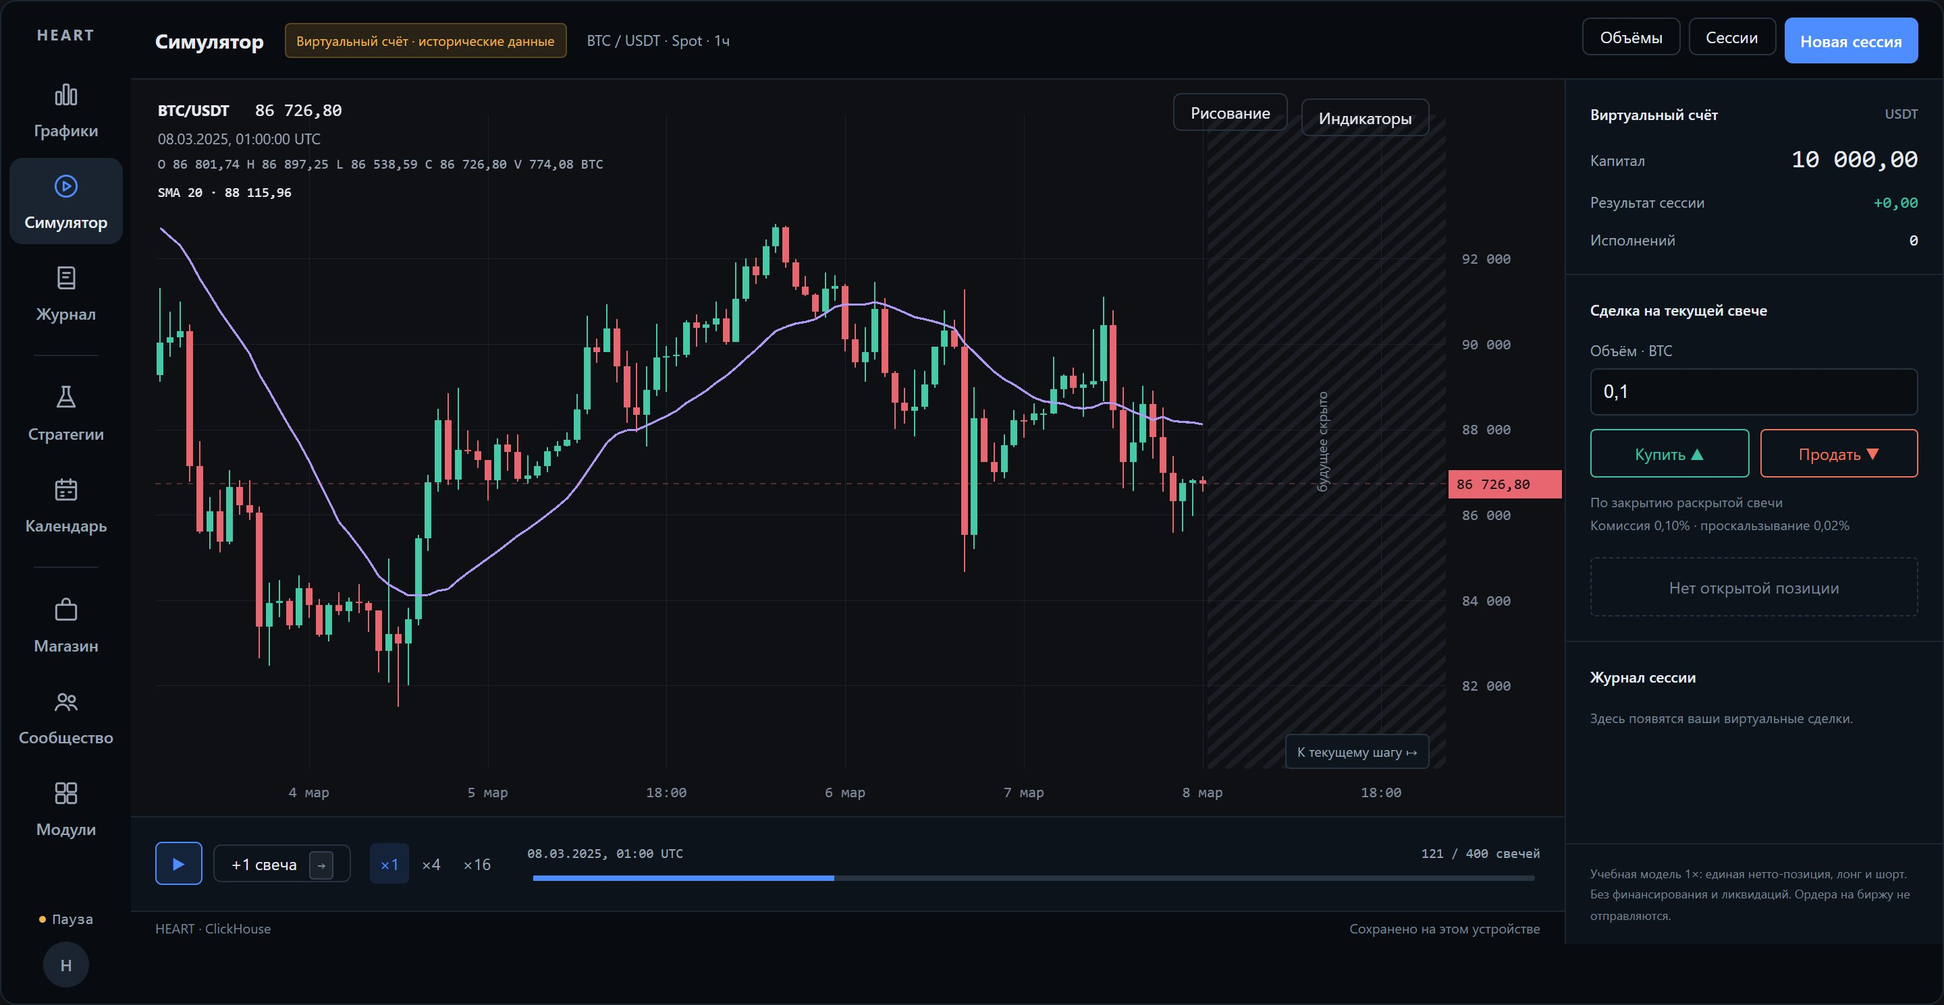
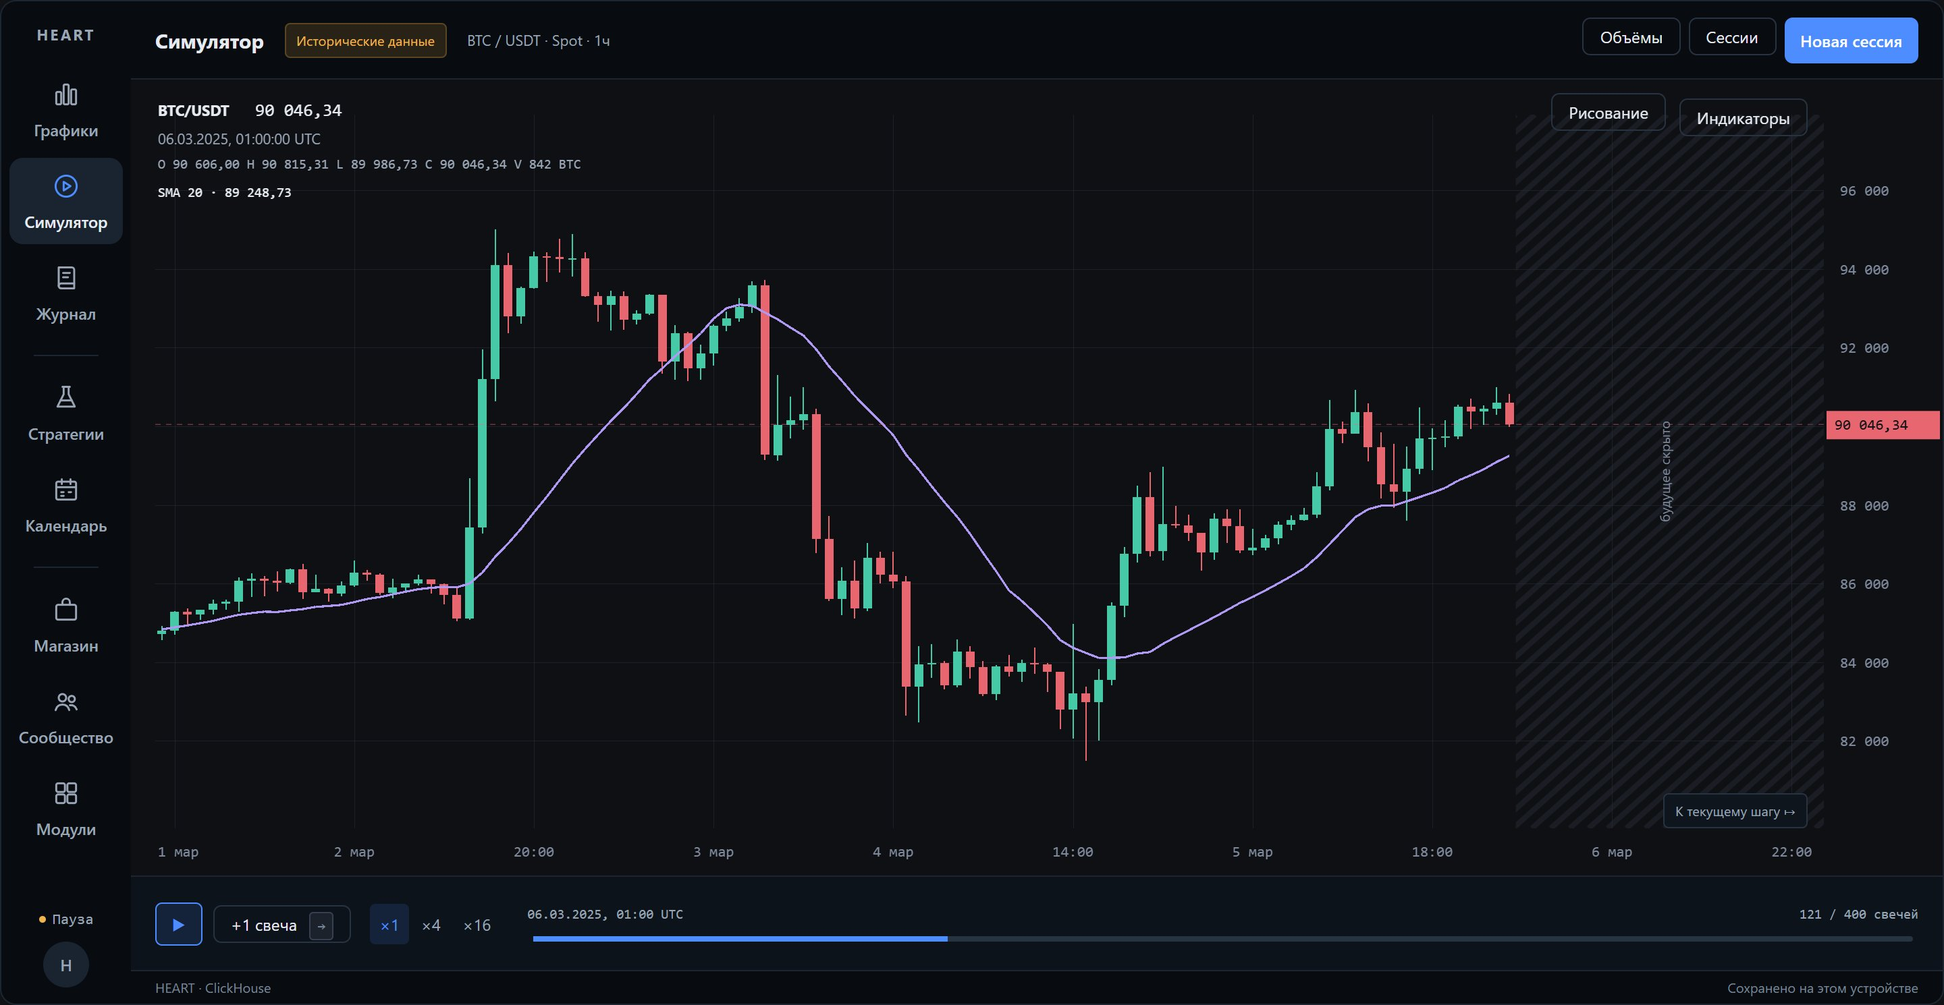
Showcase: without trading; the simulator replays without an account
The trading section, its shot and the real-account case are gone; the simulator and Modules shots are taken anew.

diff --git a/index.html b/index.html
@@ -4,7 +4,7 @@
 <meta charset="utf-8">
 <meta name="viewport" content="width=device-width, initial-scale=1, viewport-fit=cover">
 <meta property="og:title" content="Терминал HEART">
-<meta property="og:description" content="Торговый терминал в браузере: графики, торговля через cTrader, алерты, бэктест, боты на Python, журнал сделок.">
+<meta property="og:description" content="Торговый терминал в браузере: графики, алерты, бэктест, боты на Python, журнал сделок.">
 <meta property="og:image" content="https://exswat.github.io/heart-terminal/shots/charts.jpg">
 <meta property="og:url" content="https://exswat.github.io/heart-terminal/">
 <title>Терминал HEART</title>
@@ -164,7 +164,6 @@ dialog.zoom img { max-width: 100%; max-height: 100%; border-radius: 8px; }
     <p>HEART</p>
     <ol>
       <li><a href="#top">Графики</a></li>
-      <li><a href="#trading">Торговля</a></li>
       <li><a href="#strategies">Стратегии</a></li>
       <li><a href="#builder">Конструктор</a></li>
       <li><a href="#code">Редактор кода</a></li>
@@ -187,7 +186,7 @@ dialog.zoom img { max-width: 100%; max-height: 100%; border-radius: 8px; }
         <h1>HEART</h1>
         <p class="ver"><span>версия <b>0.4</b></span><span>октябрь 2026</span></p>
       </div>
-      <p class="lead">Торговый терминал, который работает в браузере. Графики с индикаторами и алертами, торговля через cTrader прямо с графика, бэктест стратегий, боты на Python, журнал сделок, симулятор и экономический календарь в одном окне.</p>
+      <p class="lead">Торговый терминал, который работает в браузере. Графики с индикаторами и алертами, бэктест стратегий, боты на Python, журнал сделок, симулятор и экономический календарь в одном окне.</p>
       <dl class="role">
         <dt>Проект</dt>
         <dd>Личный, без команды и заказчика: делаю для себя как трейдер.</dd>
@@ -220,24 +219,6 @@ dialog.zoom img { max-width: 100%; max-height: 100%; border-radius: 8px; }
           <li>пивоты, уровни прошлого дня и недели, OBV, A/D, MFI, CMF</li>
         </ul>
       </header>
-    </section>
-
-    <section class="feature" id="trading">
-      <header>
-        <p class="tag">Торговля</p>
-        <h2>Торговля через cTrader прямо с графика</h2>
-        <p>Любой инструмент счёта cTrader торгуется со своего графика: с тикета, клавишами Shift+B и Shift+S, лимитом или стопом из меню графика и кнопкой «+» у цены, ордером из нарисованной длинной или короткой позиции. Стопы, тейки и ордера стоят на графике с деньгами, которые они принесут или заберут, и перетаскиваются мышью. Трейлинг ведёт брокер, безубыток переносит сервер HEART. Исполнения и срабатывания стопов и тейков приходят уведомлениями.</p>
-        <ul class="facts">
-          <li>на реальном счёте каждое действие подтверждается</li>
-          <li>заявка не уходит дважды</li>
-          <li>по устаревшим данным счёта не торгует</li>
-          <li>объём от риска в процентах счёта</li>
-        </ul>
-      </header>
-      <figure>
-        <button class="shot" type="button" aria-label="Открыть скриншот торговли целиком"><img src="shots/trading.jpg" width="2880" height="1800" alt="График XAU/USD с позицией, её стопом и тейком, лимитным ордером со стопом и панелью торговли: тикет заявки и таблица позиций"></button>
-        <figcaption><b>Счёт, позиция и котировки на этом скриншоте — пример.</b> Снято на тестовом брокере, настоящий счёт сюда не попадает.</figcaption>
-      </figure>
     </section>
 
     <section class="feature" id="strategies">
@@ -303,10 +284,10 @@ dialog.zoom img { max-width: 100%; max-height: 100%; border-radius: 8px; }
       <header>
         <p class="tag">Симулятор</p>
         <h2>Тренировка на истории, свеча за свечой</h2>
-        <p>Выбираете инструмент, дату и период, и рынок открывается по одной свече. Будущее скрыто. Сделки идут на виртуальный счёт с комиссией и проскальзыванием, поэтому сетапы можно отрабатывать без риска для денег.</p>
+        <p>Выбираете инструмент, дату и период, и рынок открывается по одной свече. Будущее скрыто, поэтому график разбирается без подсказки: с индикаторами, рисунками и объёмами, как на обычном графике.</p>
       </header>
       <figure>
-        <button class="shot" type="button" aria-label="Открыть скриншот симулятора целиком"><img src="shots/simulator.jpg" width="2880" height="1490" alt="Симулятор: график BTC/USDT за март 2025 года со скрытым будущим, виртуальный счёт и кнопки покупки и продажи"></button>
+        <button class="shot" type="button" aria-label="Открыть скриншот симулятора целиком"><img src="shots/simulator.jpg" width="2880" height="1490" alt="Симулятор: часовой график BTC/USDT за март 2025 года со скрытым будущим и шкалой шагов"></button>
         <figcaption><b>Симулятор.</b> BTC/USDT, март 2025 года, открыта 121 свеча из 400. Заштрихованная зона справа — будущее, которого пока не видно.</figcaption>
       </figure>
     </section>
@@ -366,10 +347,6 @@ dialog.zoom img { max-width: 100%; max-height: 100%; border-radius: 8px; }
           <header><h4>Ключи и секреты</h4><span class="verdict lock">Защищено</span></header>
           <p>Ключи Binance хранятся в зашифрованном виде средствами Windows (DPAPI). Секреты не попадают в адреса запросов и в тексты ошибок, а доступ к счёту Binance только на чтение.</p>
         </article>
-        <article class="case">
-          <header><h4>Реальный счёт</h4><span class="verdict lock">Защищено</span></header>
-          <p>Каждое действие просит второго нажатия, а двойной щелчок за подтверждение не считается. Заявка не уходит дважды, по данным счёта старше 10 секунд торговли нет, а «Безубыток» не возвращает на вход стоп, который уже в прибыли.</p>
-        </article>
       </div>
     </section>
 
@@ -381,7 +358,7 @@ dialog.zoom img { max-width: 100%; max-height: 100%; border-radius: 8px; }
       <dl>
         <div><dt>Интерфейс</dt><dd>TypeScript, React 19, Vite, Zustand</dd></div>
         <div><dt>Графики</dt><dd>Собственный движок отрисовки на WebGPU с запасным Canvas, индикаторы считаются в отдельном потоке</dd></div>
-        <div><dt>Сервер</dt><dd>Go: история котировок, торговля через cTrader и безубыток, календарь, копия данных терминала</dd></div>
+        <div><dt>Сервер</dt><dd>Go: история котировок, календарь, копия данных терминала</dd></div>
         <div><dt>Боты</dt><dd>Python в браузере через Pyodide, движок бэктеста на TypeScript</dd></div>
         <div><dt>Тесты</dt><dd>Playwright, Vitest, go test, проверки перед каждым коммитом</dd></div>
         <div><dt>Данные</dt><dd>Binance, cTrader, FXStreet</dd></div>
@@ -397,7 +374,7 @@ dialog.zoom img { max-width: 100%; max-height: 100%; border-radius: 8px; }
 
 <footer>
   <div class="wrap">
-    <p>Скриншоты сняты с работающего терминала 21 и 25 октября 2026 года. Котировки и события настоящие, сделки в журнале и счёт на скриншоте торговли — пример.</p>
+    <p>Скриншоты сняты с работающего терминала 21, 25 и 30 октября 2026 года. Котировки и события настоящие, сделки в журнале — пример.</p>
     <p>Исходный код в закрытом репозитории, могу показать его на созвоне.</p>
   </div>
 </footer>

diff --git a/README.md b/README.md
@@ -1,6 +1,6 @@
 # HEART
 
-**Торговый терминал, который работает в браузере.** Графики с индикаторами и алертами, торговля через cTrader прямо с графика, бэктест стратегий, боты на Python, журнал сделок, симулятор и экономический календарь в одном окне.
+**Торговый терминал, который работает в браузере.** Графики с индикаторами и алертами, бэктест стратегий, боты на Python, журнал сделок, симулятор и экономический календарь в одном окне.
 
 **Страница проекта:** https://exswat.github.io/heart-terminal/
 
@@ -24,14 +24,6 @@
 - алерты на цену, линию, RSI, скользящую и MACD
 - снимок графика в буфер, в PNG или к сделке журнала
 - пивоты, уровни прошлого дня и недели, OBV, A/D, MFI, CMF
-
-### Торговля через cTrader
-
-Любой инструмент счёта cTrader торгуется со своего графика: с тикета, клавишами Shift+B и Shift+S, лимитом или стопом из меню графика и кнопкой «+» у цены, ордером из нарисованной длинной или короткой позиции. Стопы, тейки и ордера стоят на графике с деньгами, которые они принесут или заберут, и перетаскиваются мышью. Трейлинг ведёт брокер, безубыток переносит сервер HEART. На реальном счёте каждое действие подтверждается, заявка не уходит дважды, по устаревшим данным счёта торговли нет.
-
-![Торговля с графика: позиция, её стоп и тейк, лимитный ордер и панель торговли](shots/trading.jpg)
-
-> Счёт, позиция и котировки на этом скриншоте — пример: снято на тестовом брокере.
 
 ### Стратегии и бэктест
 
@@ -65,9 +57,9 @@
 
 ### Симулятор
 
-Рынок открывается по одной свече, будущее скрыто. Сделки идут на виртуальный счёт с комиссией и проскальзыванием.
+Рынок открывается по одной свече, будущее скрыто: график разбирается без подсказки, с индикаторами, рисунками и объёмами.
 
-![Симулятор: BTC/USDT, март 2025 года, скрытое будущее и виртуальный счёт](shots/simulator.jpg)
+![Симулятор: BTC/USDT, март 2025 года, скрытое будущее](shots/simulator.jpg)
 
 ### Экономический календарь
 
@@ -93,7 +85,6 @@
 - **Источник календаря — заменено.** Investing начал ограничивать запросы. Календарь переведён на FXStreet через собственный сервер, запросы не отправляются пачками.
 - **Скорость после перестройки — измерено.** После разбивки на модули запуск занимает 366 мс (было 388), первое открытие раздела 5–11 мс (было 310).
 - **Ключи и секреты — защищено.** Ключи Binance хранятся зашифрованными средствами Windows (DPAPI), секреты не попадают в адреса запросов и тексты ошибок, доступ к счёту Binance только на чтение.
-- **Реальный счёт — защищено.** Каждое действие просит второго нажатия, двойной щелчок за подтверждение не считается. Заявка не уходит дважды, по данным счёта старше 10 секунд торговли нет, «Безубыток» не возвращает на вход стоп, который уже в прибыли.
 
 ## Стек
 
@@ -101,7 +92,7 @@
 | --- | --- |
 | Интерфейс | TypeScript, React 19, Vite, Zustand |
 | Графики | Собственный движок отрисовки на WebGPU с запасным Canvas |
-| Сервер | Go: история котировок, торговля через cTrader и безубыток, календарь |
+| Сервер | Go: история котировок, календарь |
 | Боты | Python в браузере через Pyodide, бэктест на TypeScript |
 | Тесты | Playwright, Vitest, go test |
 | Данные | Binance, cTrader, FXStreet |
@@ -111,4 +102,4 @@
 
 ---
 
-Скриншоты сняты с работающего терминала 21 и 25 октября 2026 года. Котировки и события настоящие, сделки в журнале и счёт на скриншоте торговли — пример.
+Скриншоты сняты с работающего терминала 21, 25 и 30 октября 2026 года. Котировки и события настоящие, сделки в журнале — пример.
